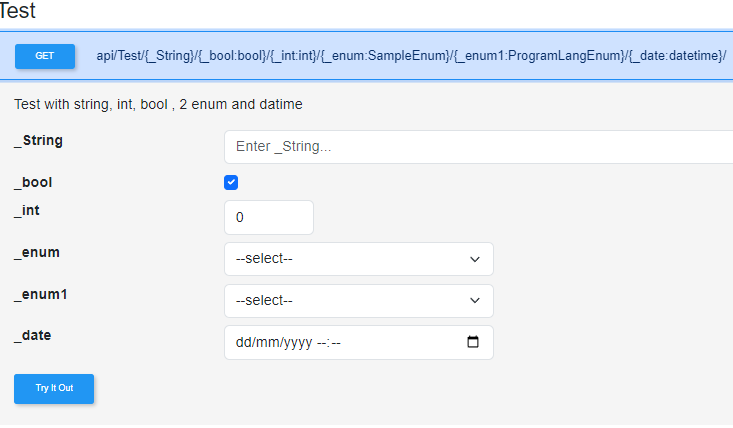
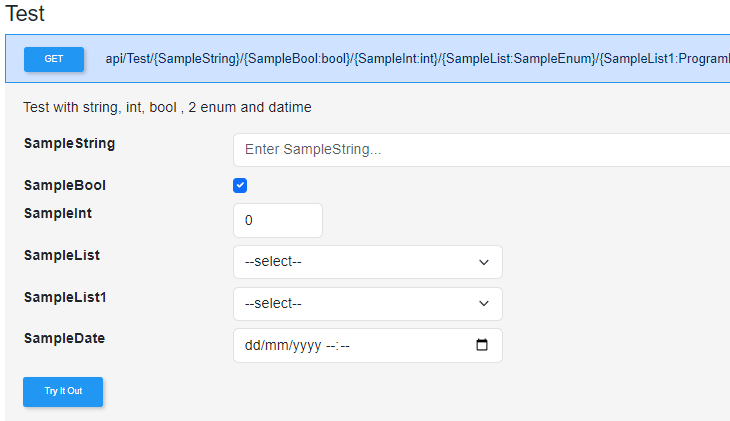
Change Readme

diff --git a/README.md b/README.md
@@ -9,6 +9,18 @@
 - **API Key Integration**: API calls are secured using an API key stored in the `appsettings.json` file.
 - **Single Razor Component Page**: The interface is rendered as a single Razor component, making it easy to integrate.
 - **JSON-Based API Configuration**: API calls are defined in an `apisettings.json` file, enabling easy management of endpoints.
+
+
+To create a new Blazor project with the WiDocApi library, follow these steps:
+- Create a new Blazor Web App project.
+- Framework: .NET 8.0
+- Authentication: None Authentication
+- Configure for HTTPS: Yes
+- interacrive render mode: Server
+- Interactivity locaction: Per page/Component
+- Include sample pages: (optional)
+
+
 ![Afbeelding](assets/WiDocApi.png)
 
 > #### download the WiDocApi library from my GitHub https://github.com/wvillevoye/WiDocApi/pkgs/nuget/WiDocApi_blazor
@@ -38,53 +50,39 @@ public static void PersonsEndpoints(this IEndpointRouteBuilder endpoints, IConfi
 - For version 2.0.0 it is possible to specify the type for the endpoints, for example :int :bool :enum :datatime
 see an example below
 - it is possible to download your endpoints result.
-- it is to use the enum in the endpoint you must add the EnumUtils class to your project in my example:
+- it is to use the enum in the endpoint you must add the EnumUtils class to your project Please note that with Name:enum the enum must always be named, for example Cars:CarsEnum:
 
 ### Create in your blazor a new component and add the following code:
 ```csharp
  
-    group.MapGet("/Test/{_String}/{_bool:bool}/{_int:int}/{_enum:SampleEnum}/{_enum1:ProgramLangEnum}/{_date:datetime}/",
-      (string _String, bool _bool, int _int, SampleEnum _enum, ProgramLangEnum _enum1, DateTime _date) =>
-        {
-           var _res = new Dictionary<string, object>
-             {
-               {"String", _String},
-               {"bool", _bool.ToString()},
-               {"int", _int.ToString()},
-               {"date", _date.ToString("yyyy-MM-dd HH:mm:ss")}, // Ensuring proper date format
-               {"enum", _enum.ToString()},
-                {"enum1", _enum1.ToString()}
-             };
+              group.MapGet("/Test/{SampleString}/{SampleBool:bool}/{SampleInt:int}/{SampleList:SampleEnum}/{SampleList1:ProgramLangEnum}/{SampleDate:datetime}/",
+              (string SampleString, bool SampleBool, int SampleInt, SampleEnum SampleList, ProgramLangEnum SampleList1, DateTime SampleDate) =>
+              {
+                  var _res = new Dictionary<string, object>
+                    {
+                        {"String", SampleString},
+                        {"bool", SampleBool.ToString()},
+                        {"int", SampleInt.ToString()},
+                        {"date", SampleDate.ToString("yyyy-MM-dd HH:mm:ss")}, // Ensuring proper date format
+                        {"enum", SampleList.ToString()},
+                        {"enum1", SampleList1.ToString()}
+                    };
 
-               return Results.Json(_res, new JsonSerializerOptions { WriteIndented = true });
-         })
-         .WithName("Test123")
-         .WithOpenApi()
-         .AddWiDocApiEndpoints(new EndpointInfo
+                  return Results.Json(_res, new JsonSerializerOptions { WriteIndented = true });
+              })
+           .WithName("Test123")
+           .WithOpenApi()
+           .AddWiDocApiEndpoints(new EndpointInfo
            {
                Group = "Test",
                Description = "Test with string, int, bool , 2 enum and datime",
                CacheDurationMinutes = 0,
                EnumLists = EnumUtils.CreateEnumLists(
-                            ("_enum", typeof(SampleEnum)),
-                            ("_enum1", typeof(ProgramLangEnum))
+                            ("SampleList", typeof(SampleEnum)),
+                            ("SampleList1", typeof(ProgramLangEnum))
                            )
            });
 
-
- public enum SampleEnum
-        {
-            Option1,
-            Option2,
-            Option3
-        }
-
-        public enum ProgramLangEnum
-        {
-            cobol,
-            python,
-            csharp
-        }
  ```
 
  ![Afbeelding](assets/WiDocApi2.png)
